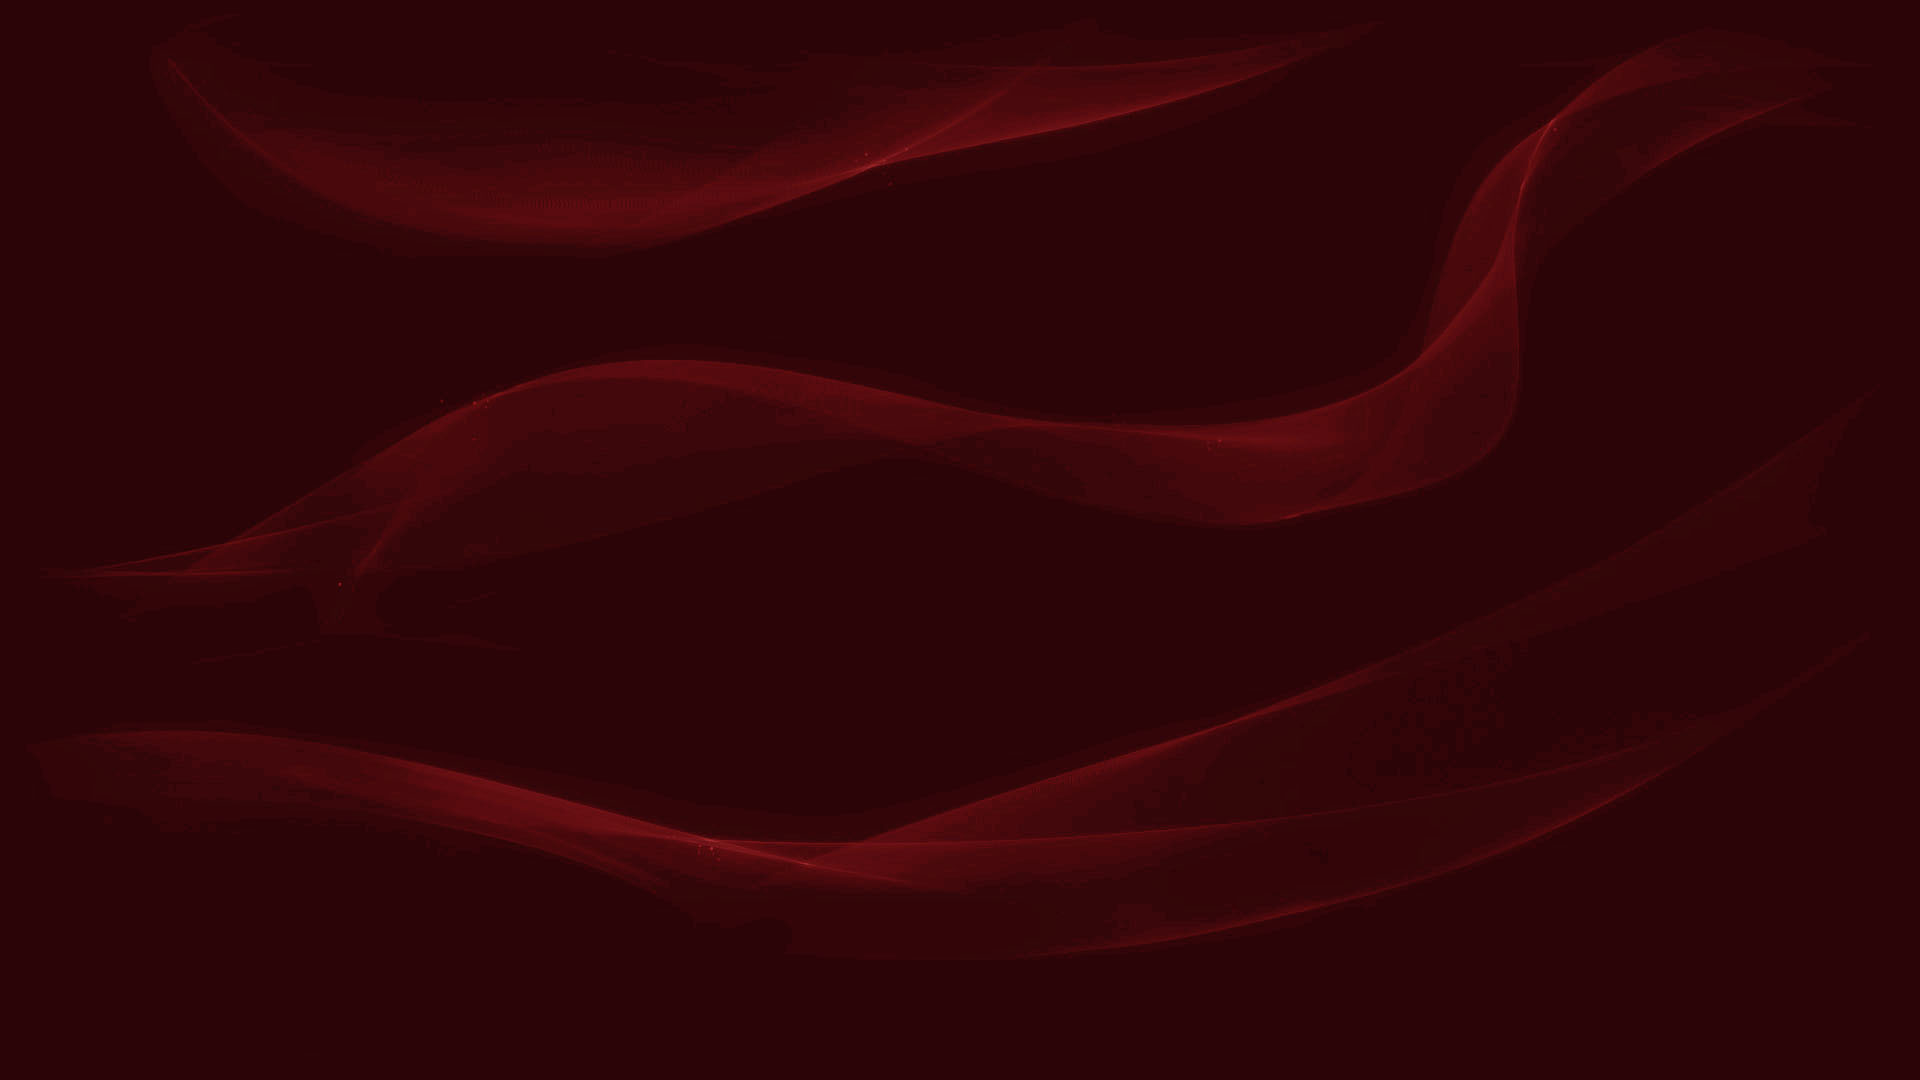
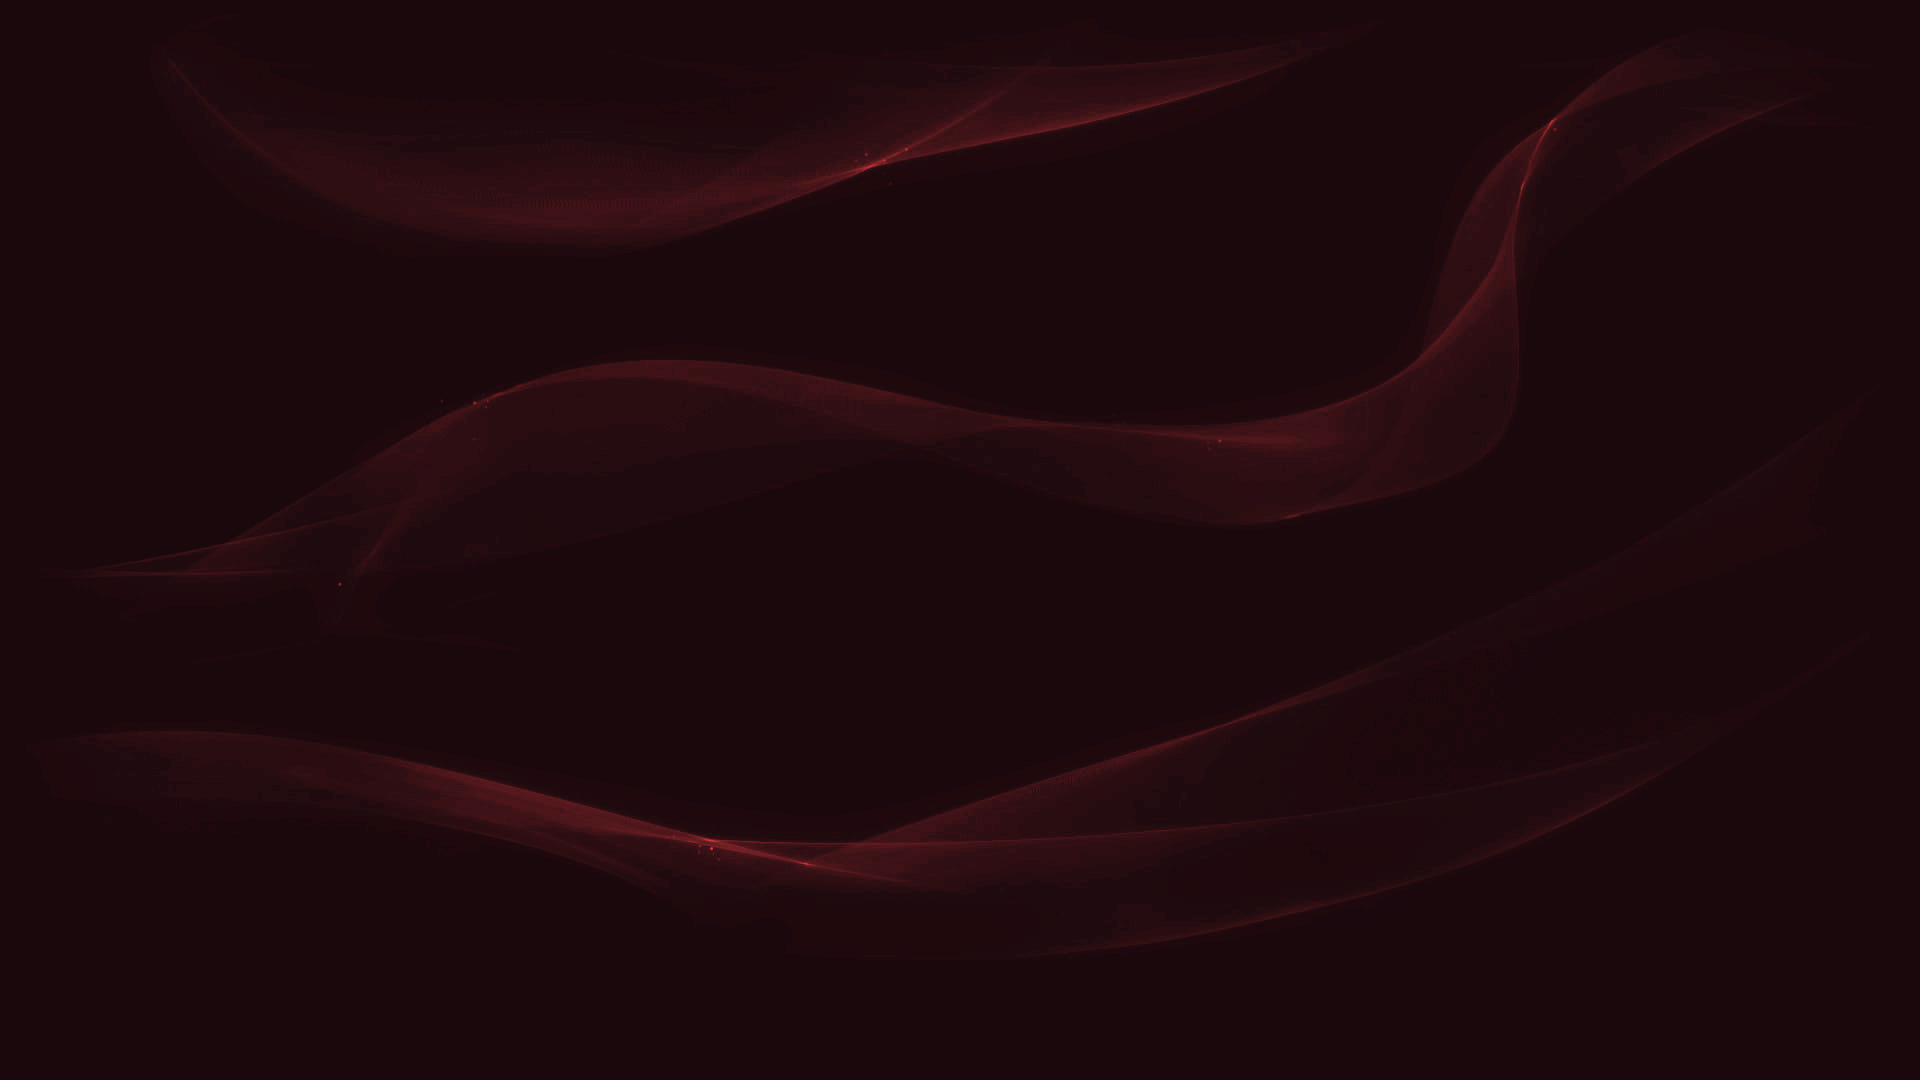
Back-end changes
- Added support for retrieving game version
- Improved UI
- Improved ChampionGG Providers
- Changed red background
- Added second red background (not yet implemented)
- Improved other back-end stuff

diff --git a/ProviderHandler.js b/ProviderHandler.js
@@ -9,14 +9,45 @@ class ProviderHandler {
     if (Mana.store.has(`runes.${storeKey}`) && Mana.store.has(`summonerspells.${storeKey}`))
       return { runes: Mana.store.get(`runes.${storeKey}`), spells: Mana.store.get(`summonerspells.${storeKey}`) };
 
+    let data = {
+      runes: [],
+      itemsets: [],
+      summonerspells: []
+    };
+
     for (let provider of this.providers) {
       try {
-        const data = await provider.getData(champion, position, gameMode);
+        let method;
 
-        Mana.store.set(`runes.${storeKey}`, Mana.store.get(`runes.${storeKey}`, []).concat(data.runes));
-        Mana.store.set(`summonerspells.${storeKey}`, data.summonerspells);
+        if (data.runes.length === 0 && data.itemsets.length === 0 && data.summonerspells.length === 0)
+          method = 'getData';
+        else if (data.itemsets.length === 0)
+          method = 'getItemSets';
+        else if (data.summonerspells.length === 0)
+          method = 'getSummonerSpells';
+        else if (data.runes.length === 0)
+          method = 'getRunes';
 
-        return data;
+        if (!provider[method]) continue;
+        const d = await provider[method](champion, position, gameMode);
+
+        if (method === 'getData' || method === 'getRunes') {
+          data.runes = data.runes.concat(d.runes);
+          Mana.store.set(`runes.${storeKey}`, Mana.store.get(`runes.${storeKey}`, []).concat(d.runes));
+        }
+        else if (method === 'getData' || method === 'getItemSets')
+          data.itemsets = data.itemsets.concat(d.itemsets);
+        else if (method === 'getData' || method === 'getSummonerSpells') {
+          data.summonerspells = d.summonerspells;
+
+          if (d.summonerspells.length > 0)
+            Mana.store.set(`summonerspells.${storeKey}`, summonerspells);
+        }
+
+        if (data.runes.length === 0 || data.itemsets.length === 0 || data.summonerspells.length === 0)
+          continue;
+
+        return { runes, itemsets, summonerspells };
       }
       catch(err) {
         console.error(err);

diff --git a/providers/ChampionGG.js b/providers/ChampionGG.js
@@ -23,17 +23,26 @@ class ChampionGGProvider {
     const data = await this._scrape(res, champion.key, position ? position.slice(0, 1) + position.slice(1).toLowerCase() : null, gameMode);
 
     if (data.runes.every(x => x.selectedPerkIds.length === 0)) throw new TypeError("Impossible de récupérer les runes de " + champion.name + " avec Champion.GG.");
+    if (data.summonerspells.length === 0) throw new TypeError("Impossible de récupérer les sorts d'invocateur de " + champion.name + " avec Champion.GG.");
+    if (data.itemsets.length === 0) throw new TypeError("Impossible de récupérer les sets d'items de " + champion.name + " avec Champion.GG.");
+
     return data;
   }
 
-  async getRunes(champion, position, gameMode) {
-    const res = await rp(this.base + 'champion/' + champion.key);
-    const { runes } = await this._scrape(res, champion.key, position ? position.slice(0, 1) + position.slice(1).toLowerCase() : null, gameMode);
-
-    if (runes.every(x => x.selectedPerkIds.length === 0)) throw new TypeError("Impossible de récupérer les runes de " + champion.name + " avec Champion.GG.");
-    return runes;
+  async getSummonerSpells(champion, position, gameMode) {
+    const { summonerspells } = await this.getData(champion, position, gameMode);
+    return summonerspells;
   }
 
+  async getItemSets(champion, position, gameMode) {
+    const { itemsets } = await this.getData(champion, position, gameMode);
+    return itemsets;
+  }
+
+  async getRunes(champion, position, gameMode) {
+    const { runes } = await this.getData(champion, position, gameMode);
+    return runes;
+  }
 
   _scrape(html, champion, position, gameMode) {
     return new Promise(resolve => {
@@ -81,7 +90,7 @@ class ChampionGGProvider {
       $('.buildwrapper').each(function(index) {
         const type = $(this).parent().find('h2').text();
         console.log(type);
-        
+
         let block = new Block().setName(type);
 
         $(this).each(function(index) {

diff --git a/User.js b/User.js
@@ -3,8 +3,6 @@ const rp = require('request-promise-native');
 class User {
   constructor(base) {
     this.base = base;
-
-    rp(this.base + 'lol-game-data/assets/v1/champion-summary.json').then(res => console.dir);
   }
 
   async load() {
@@ -16,6 +14,10 @@ class User {
 
   async getGameMode() {
     return (await this.getChatMe()).lol.gameMode;
+  }
+
+  async getVersion(full) {
+    return JSON.parse(await rp(this.base + 'system/v1/builds'))[full ? 'version' : 'gameBranch'];
   }
 
   async getChatMe() {

diff --git a/src/assets/css/manaflux.css b/src/assets/css/manaflux.css
@@ -86,7 +86,6 @@ label {
 .option-name {
   color: #f0e6d2;
   font-size: 25px;
-  min-width: 50%;
   margin-bottom: 10px;
 }
 
@@ -545,6 +544,7 @@ textarea:disabled {
 
 .option {
   margin-bottom: 25px;
+  min-width: 50%;
   float: left;
 }
 

diff --git a/src/assets/js/ui.js b/src/assets/js/ui.js
@@ -1,6 +1,7 @@
 var UI = {};
 
 UI.error = function(err) {
+	$('#warning').show();
 }
 
 /*
